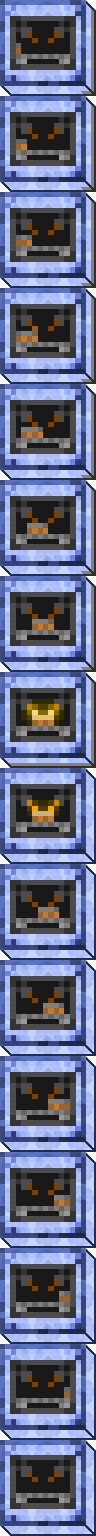
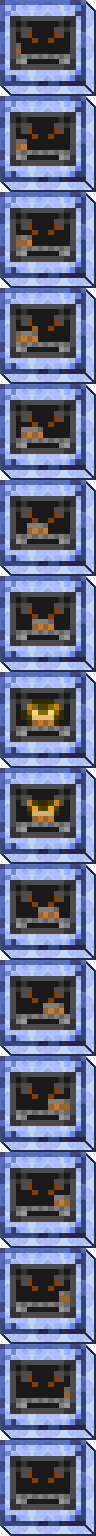
Circuit assemblers MV to MAX: steady casing in the working animation
The working sheet of the MV circuit assembler (also used by HV and EV,
inherited from Gregtorio 0.1.9) drew the casing of frames 1-8 in other
colours than the idle sprite and frames 9-16, with frame 8 shifted by a
few pixels and the monitor of frame 16 one pixel up, so the working
machine seemed to jump between two pictures. The ten fork tiers (IV to
MAX) were recoloured from it and had the same fault.

Every frame is now the idle sprite with only the monitor area
(y 16-69, x 10-75) taken from the original animation; frame 16's offset
is corrected. Outside the monitor every frame is pixel-identical to the
idle sprite.

Reported by Totue on Discord.

Changed region(s): [[0.125, 0.0, 1.0, 0.5], [0.5625, 0.9375, 0.5938, 0.9688], [0.2812, 0.9375, 0.3125, 0.9688]]

diff --git a/docs/graphics-review/README.md b/docs/graphics-review/README.md
@@ -16,6 +16,7 @@ Regenerate them with `python tools/gen_review_sheet.py all`.
 | `issue-97/` | issue #97: the sprites of the steam, nuclear and storage multiblocks (`sprites-*.png`, before: none; GT's large turbine faces of steel and titanium with the EV and IV dynamo hatches on the corners, GT's large heat exchanger, the fluid nuclear reactor in GT's radiation proof casing, the IV to ZPM lapotronic supercapacitors from kekztech's casing and capacitor blocks with GT's energy and dynamo hatches of the tier, and the icons of the new capacitor blocks and upgrades) and their technology icons (`techs-1.png`) |
 | `issue-654/` | issue #654: `fluid-icons.png`, the 62 fluids with GT's own texture (`python tools/gen_fluid_icons.py --gt ...`, then `python tools/gen_review_sheet.py fluid-icons --ref <base>`; the reasons of the others in `tools/fluid-textures.tsv`); `sprites.png`, the drawn Ender Chest and Tank, the godforge with its star while it runs, and vein ores (GT's ore texture of their icon set in their colour on the stone lumps) |
 | `issue-431/` | issue #431: the Cauldron drawn as code (`python tools/gen_icons.py --drawn`; GTNH's cauldron is Minecraft's block, whose texture is not used, and GT has none): `small-machines.png` next to the other 1x1 machines and the LV machine icons (`python tools/gen_review_sheet.py small`), `sprites-cauldron.png` before (the tinted water bucket) and after |
+| `circuit-assembler-frames/` | the working animation of the circuit assemblers, MV (also HV and EV) and LuV as the example of the ten fork tiers: the idle picture and the 16 frames, before (top row) and after (bottom row) the casing of every frame was taken from the idle picture |
 | `fluids-tab.png` | the Fluids tab of the signal and fluid choosers: one block per subgroup (a row in the game), the fluid icons with their names (`python tools/devcheck/devcheck.py check --fluids-out fluids.tsv`, then `python tools/gen_review_sheet.py fluids --fluids fluids.tsv`) |
 | `icon-sources.tsv` | for every item, the textures it is made of (`tools/gen_gt_icons.py --sources`) |
 
